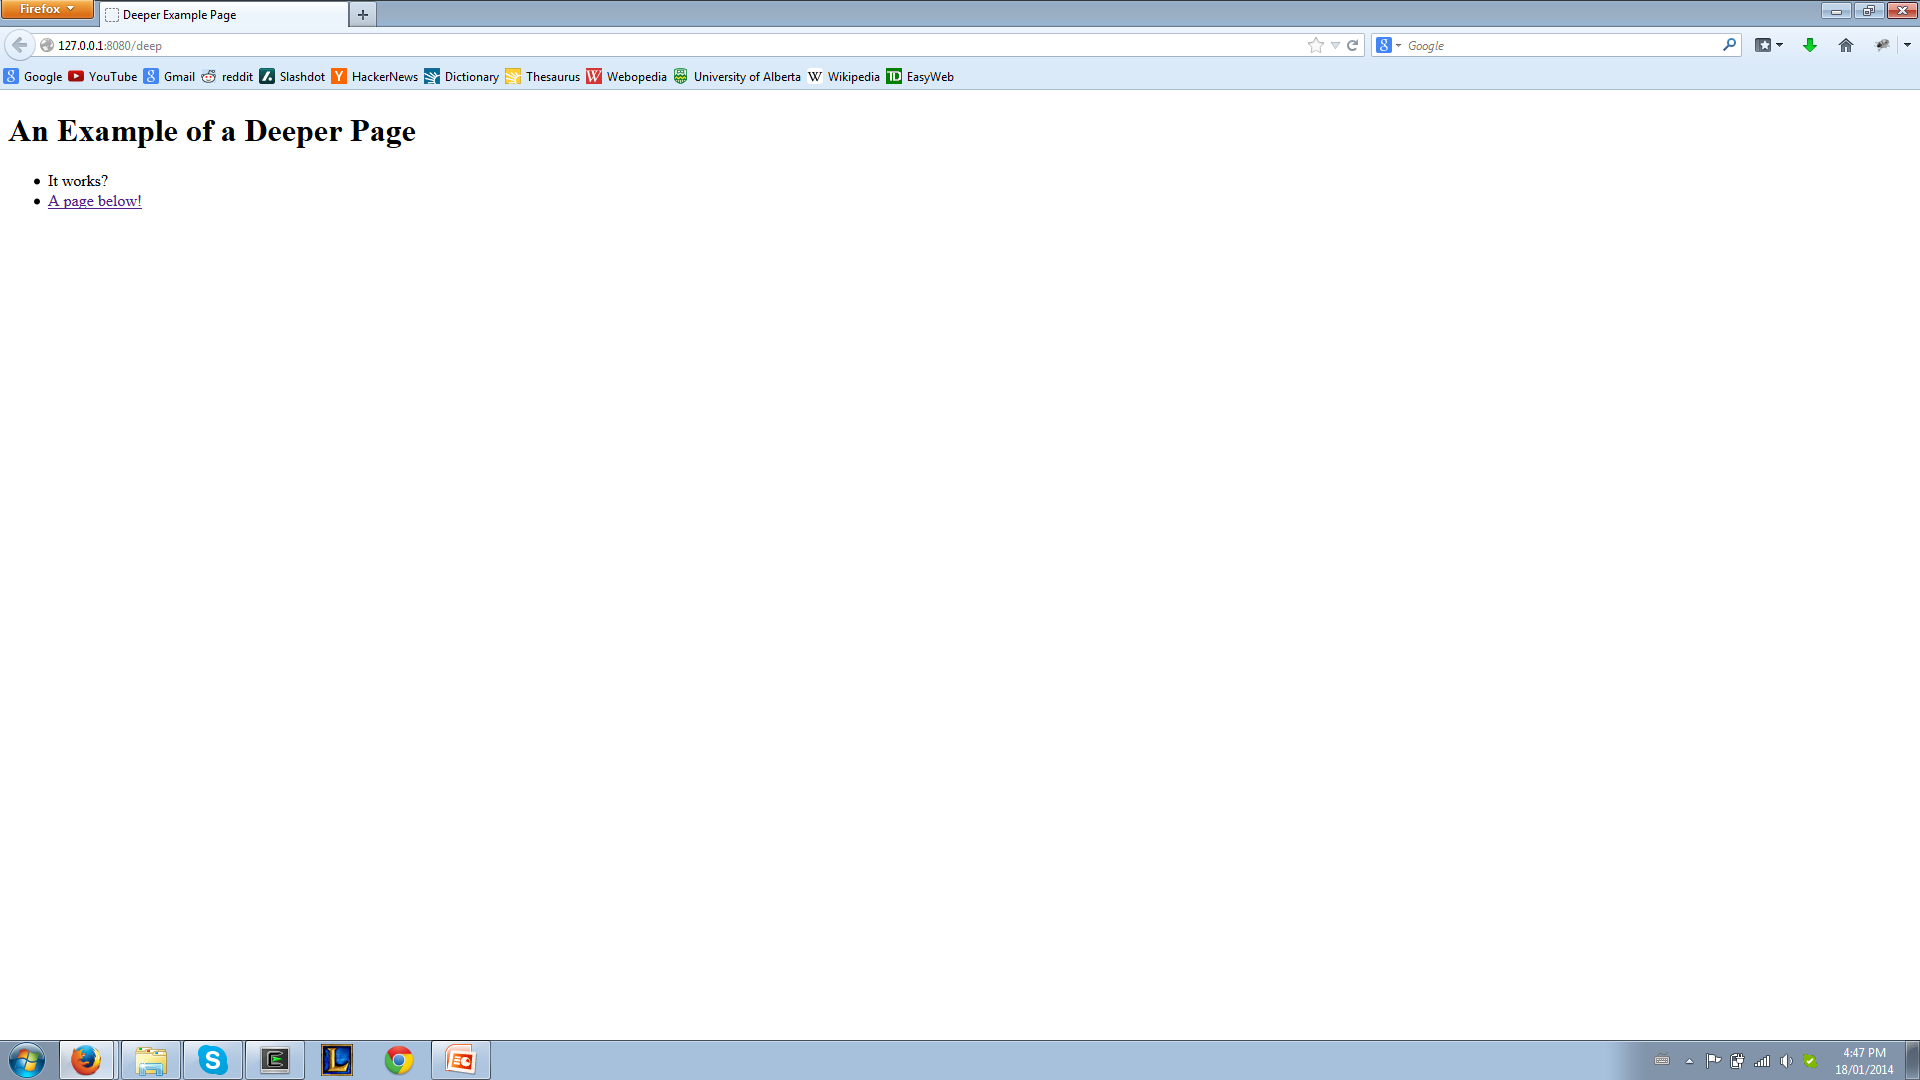
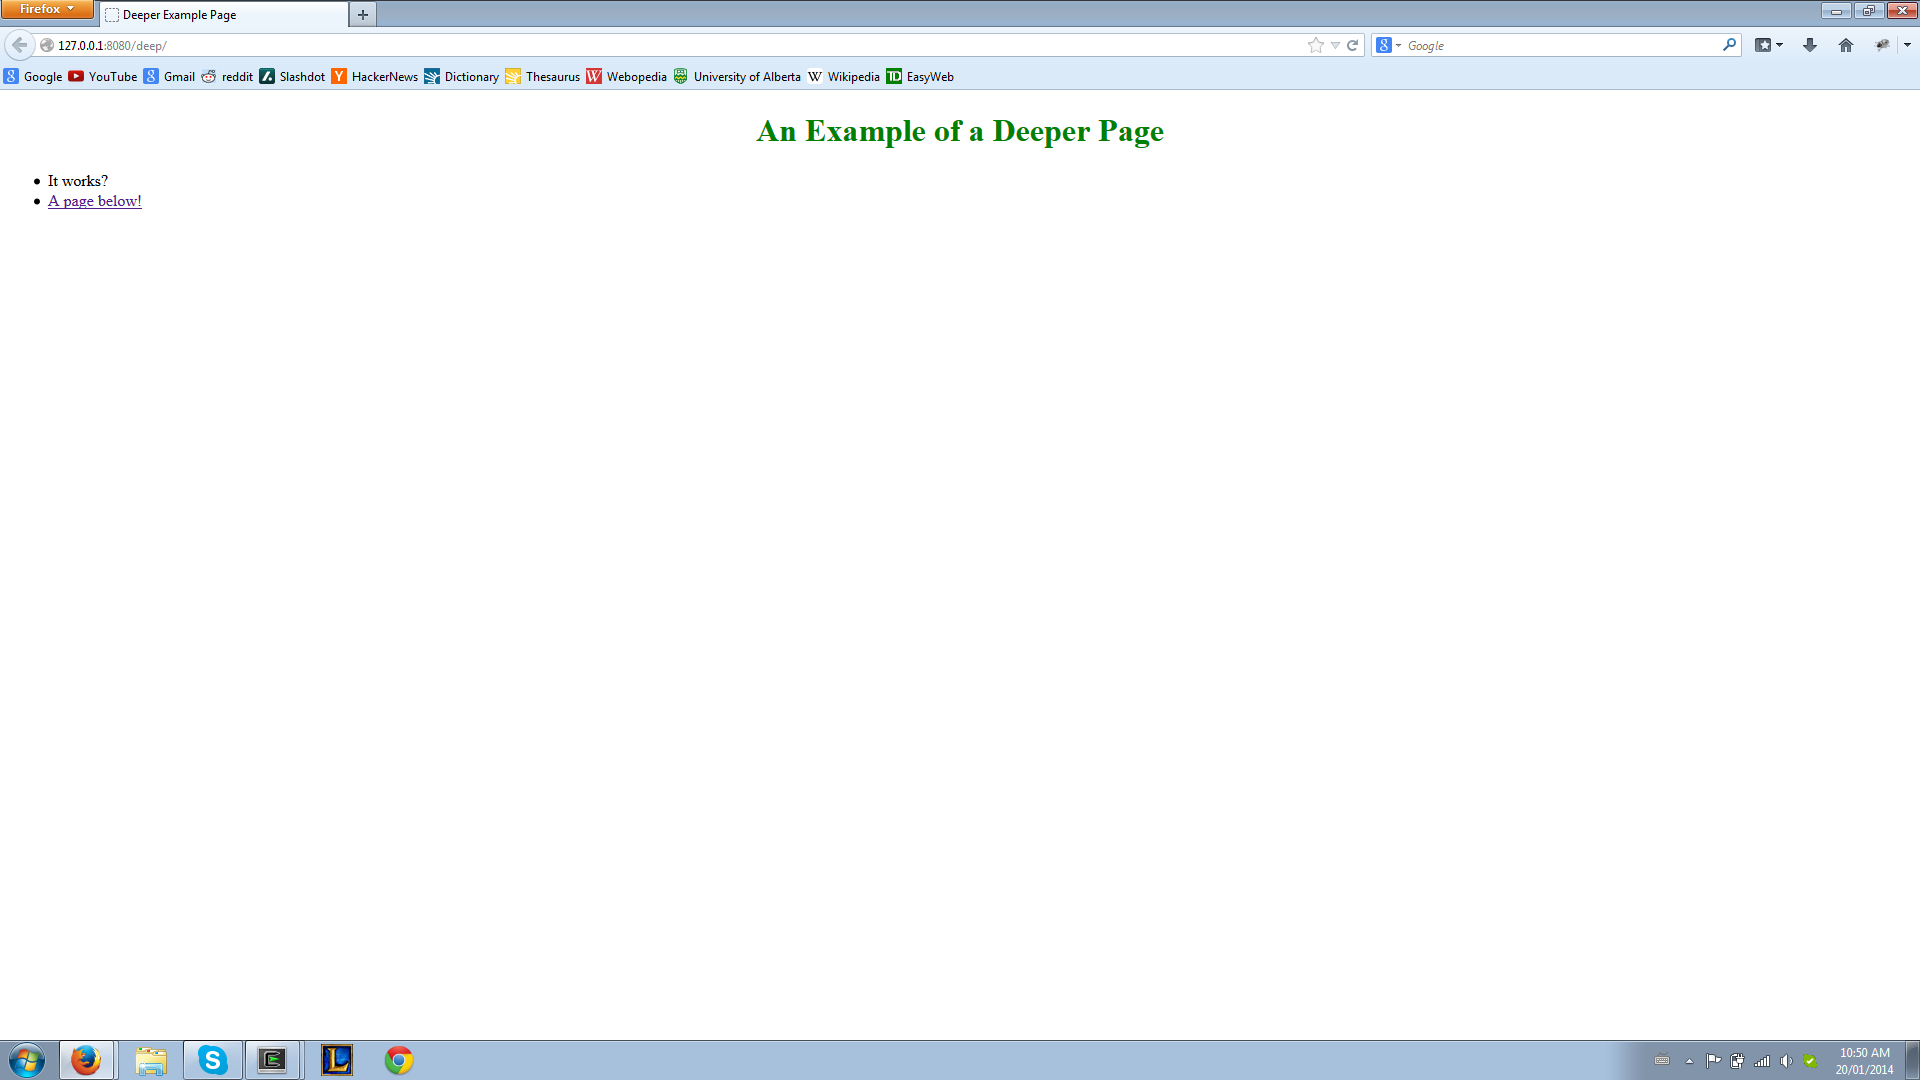
Fix server.py so css applies to deeper index page

diff --git a/server.py b/server.py
@@ -32,6 +32,7 @@ class MyWebServer(SocketServer.BaseRequestHandler):
     
     STATUS_OK = "HTTP/1.1 200 OK"
     STATUS_NOT_FOUND = "HTTP/1.1 404 Not Found"
+    STATUS_REDIRECT = "HTTP/1.1 301 Moved Permanently"
 
     def handle(self):
 
@@ -41,6 +42,12 @@ class MyWebServer(SocketServer.BaseRequestHandler):
 
         response = ""
 
+        requestedFile = httpGetLine.split()[1]
+
+        requestedFilePath = os.path.join(os.getcwd(),
+                                         "www",
+                                         requestedFile[1:])
+
         requestedFilePath = self.getRequestedFilePath(httpGetLine)
         contentType = self.getContentType(requestedFilePath)
 
@@ -49,15 +56,26 @@ class MyWebServer(SocketServer.BaseRequestHandler):
                                    os.path.join(os.getcwd(), "www")) and
             os.path.exists(requestedFilePath)):
 
-            with open(requestedFilePath) as f:
+            # if the requested path is a directory, redirect with trailing /
+            if os.path.isdir(requestedFilePath):
 
                 response = ("%s\r\n"
-                            "Connection: close\r\n"
-                            "Content-Type: %s\r\n"
-                            "Content-Length: %s\r\n\r\n"
-                            "%s" %
-                            (self.STATUS_OK, contentType,
-                             os.path.getsize(requestedFilePath), f.read()))
+                            "Content-Type: text/html\r\n"
+                            "Location: %s/\r\n\r\n" %
+                            (self.STATUS_REDIRECT,
+                             requestedFile))
+
+            else:
+
+                with open(requestedFilePath) as f:
+
+                    response = ("%s\r\n"
+                                "Connection: close\r\n"
+                                "Content-Type: %s\r\n"
+                                "Content-Length: %s\r\n\r\n"
+                                "%s" %
+                                (self.STATUS_OK, contentType,
+                                 os.path.getsize(requestedFilePath), f.read()))
 
         # the path doesn't exist, so return 404 not found
         else:
@@ -79,9 +97,8 @@ class MyWebServer(SocketServer.BaseRequestHandler):
                                          requestedFile[1:])
 
         # if the requested path is a directory, serve the index file
-        if os.path.isdir(requestedFilePath):
-            requestedFilePath = os.path.join(requestedFilePath,
-                                                     "index.html")
+        if os.path.isdir(requestedFilePath) and requestedFilePath.endswith("/"):
+            requestedFilePath = os.path.join(requestedFilePath, "index.html")
 
         return requestedFilePath
 
